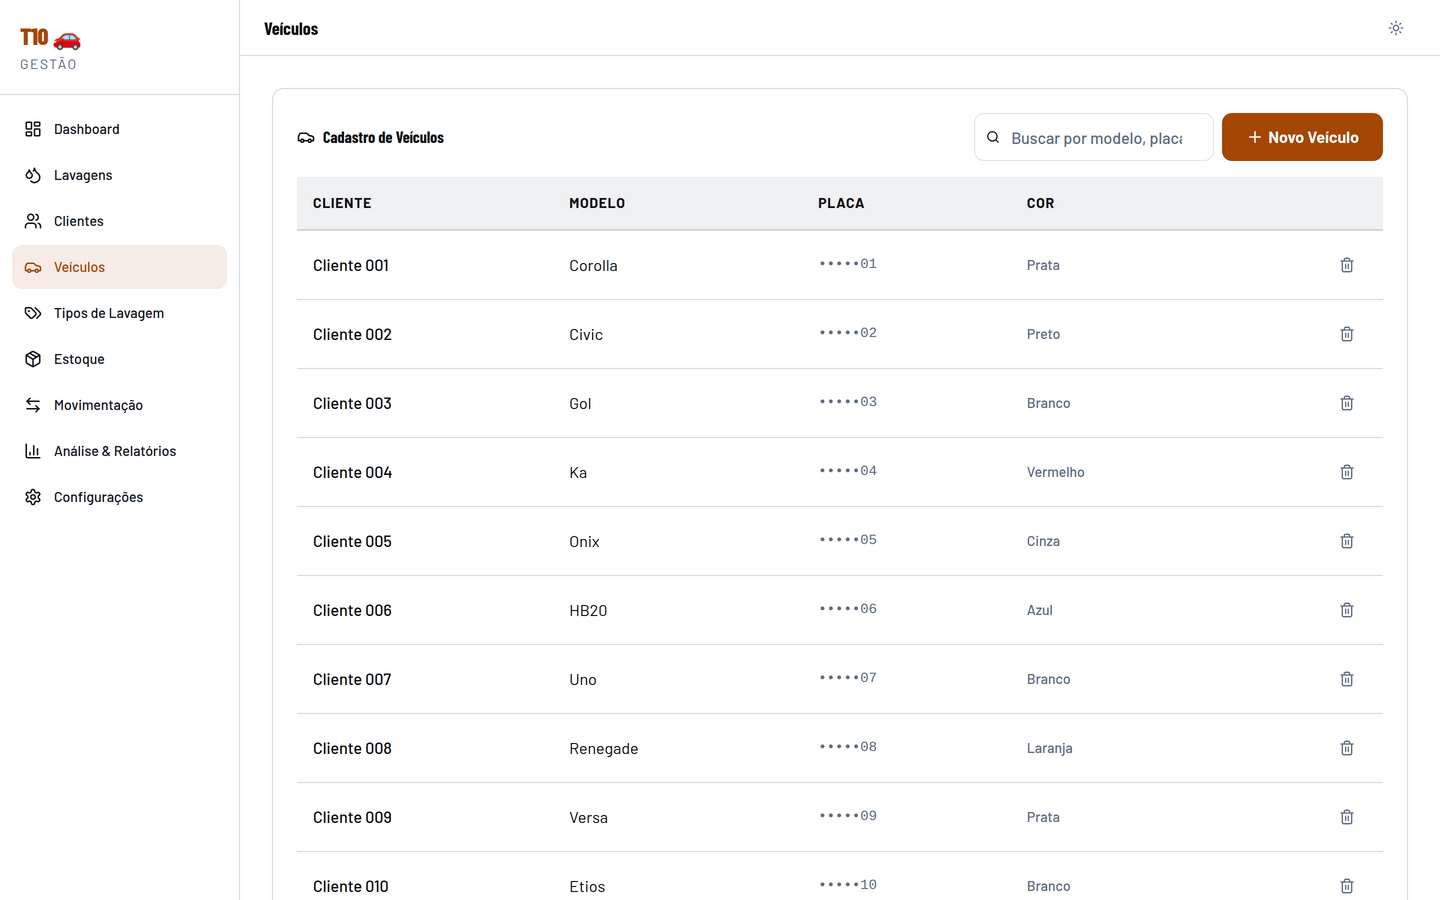
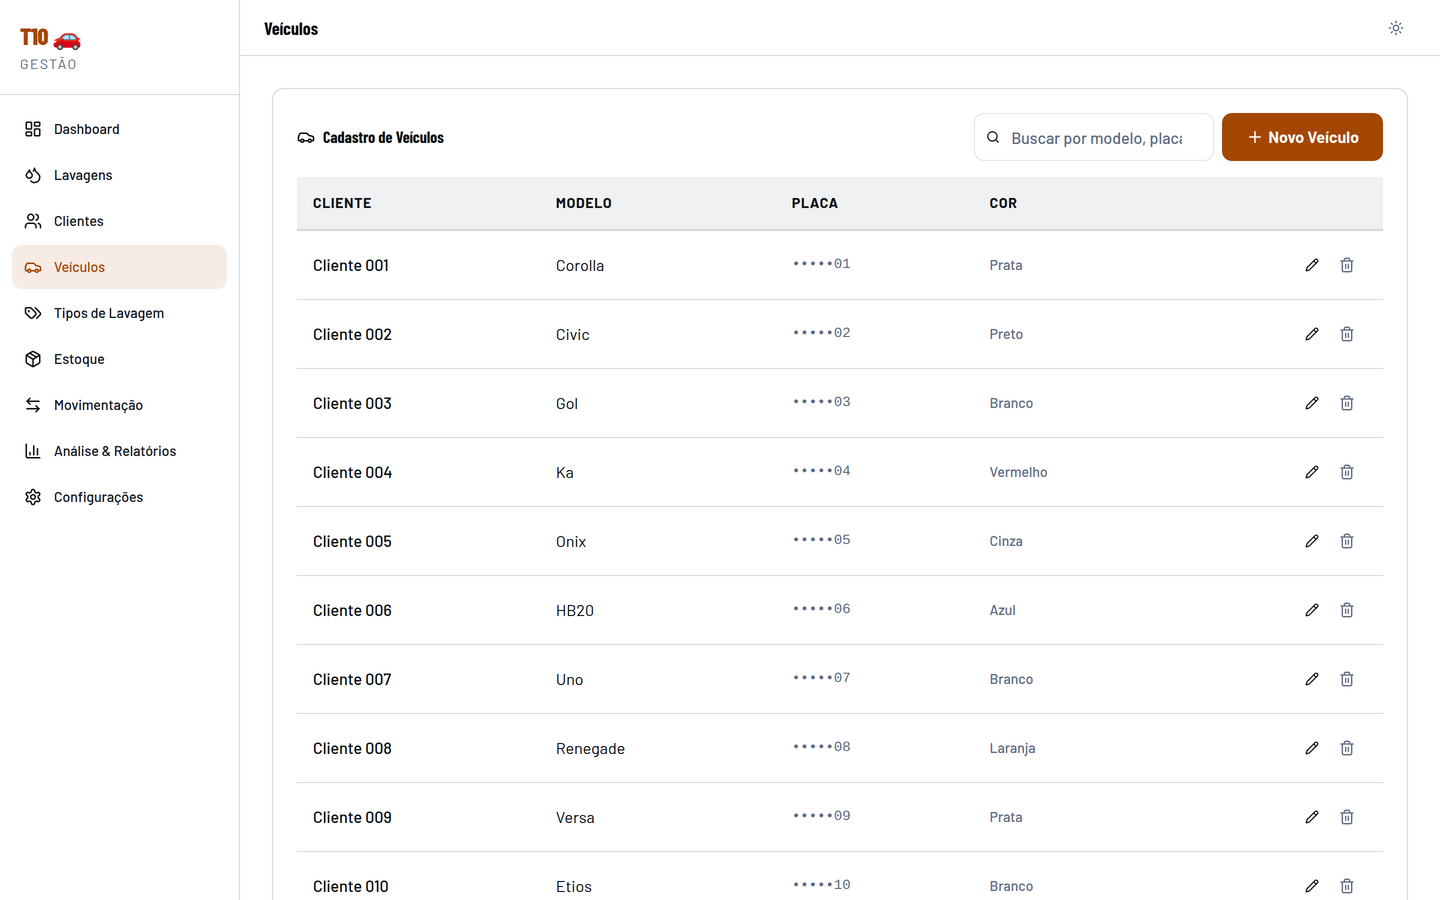
docs(capturas): atualiza telas afetadas e apendice dos modais
- Regenera veiculos-formulario (agora modal), veiculos-listagem,
  tipos-lavagem e estoque-critico.
- Passo de captura aguarda o dialogo e valida o modo criacao.
- Apendice da avaliacao LGPD registra a correcao dos modais orfaos.

diff --git a/docs.html b/docs.html
@@ -818,7 +818,7 @@ npm run build</code></pre>
 
                 <div class="section-card p-6">
                     <h3 class="text-lg font-semibold mb-4 text-slate-800 border-b pb-2">7.5 Veículos</h3>
-                    <p class="text-sm text-slate-600 mb-4">Frota vinculada aos clientes, com busca por modelo, placa ou nome e formulário de cadastro com validação de placa.</p>
+                    <p class="text-sm text-slate-600 mb-4">Frota vinculada aos clientes, com busca por modelo, placa ou nome e modal de cadastro/edição com validação de placa.</p>
                     <div class="grid md:grid-cols-2 gap-4">
                         <img src="./docs_assets/screenshots/05-veiculos/veiculos-listagem.png" alt="Listagem de veículos" class="rounded-lg border border-slate-200 shadow-sm w-full hover:shadow-md transition-shadow">
                         <img src="./docs_assets/screenshots/05-veiculos/veiculos-formulario.png" alt="Cadastro de veículo" class="rounded-lg border border-slate-200 shadow-sm w-full hover:shadow-md transition-shadow">

diff --git a/docs_assets/screenshots/AVALIACAO-LGPD.md b/docs_assets/screenshots/AVALIACAO-LGPD.md
@@ -460,10 +460,17 @@ PY
 
 ## Apêndice — achados de qualidade fora do escopo de privacidade
 
-Registrados porque apareceram durante a inspeção, mas **não** são questão de
-LGPD e **não** foram corrigidos sem alinhamento:
+Registrados porque apareceram durante a inspeção e **não** são questão de LGPD.
 
-- `openNovoVeiculo`, `openNovoServico` e `openMovimentacaoEstoque` existem no
-  `ModalContext` mas **não têm gatilho de UI** — são modais inalcançáveis pelo
-  usuário. Ou falta o botão, ou o handler é código morto. Impacto: funcionalidade
-  de cadastro que o README descreve pode não estar acessível na interface.
+- **Resolvido na branch `feat/modais-cadastro`.** `openNovoVeiculo` e
+  `openNovoServico` existiam no `ModalContext` sem gatilho de UI — modais
+  inalcançáveis pelo usuário. As telas `/veiculos` e `/tipos-lavagem` passaram a
+  abrir esses modais para criar e editar, e os formulários inline duplicados
+  foram removidos; `ClienteDetalhe` usa o mesmo modal com `clienteId`. A lacuna
+  real era a **edição de tipo de lavagem**, que antes só permitia criar e
+  excluir (e apagar o serviço quebra o histórico ligado por FK). O
+  `MovimentacaoEstoqueModal` foi removido em vez de ligado: a linha do estoque
+  agora leva a `/movimentacao?produto=<id>`, sem duas implementações do mesmo
+  formulário. A regressão é coberta por
+  `frontend/src/test/cadastros-modais.test.tsx`, que clica nos botões reais em
+  vez de chamar os handlers do contexto.

diff --git a/docs_assets/screenshots/00-indice.md b/docs_assets/screenshots/00-indice.md
@@ -72,13 +72,13 @@ seguem sintéticos.
 | Arquivo | Rota | O que mostra |
 |---|---|---|
 | `05-veiculos/veiculos-listagem.png` | `/veiculos` | Frota cadastrada, com busca por modelo, placa ou cliente. |
-| `05-veiculos/veiculos-formulario.png` | `/veiculos` | Cadastro de veículo vinculado a um cliente, com placa validada. |
+| `05-veiculos/veiculos-formulario.png` | `/veiculos` | Modal de cadastro de veículo vinculado a um cliente, com placa validada. |
 
 ## 06 — Serviços
 
 | Arquivo | Rota | O que mostra |
 |---|---|---|
-| `06-servicos/tipos-lavagem.png` | `/tipos-lavagem` | Catálogo de serviços: cadastro de preço e descrição usados no faturamento. |
+| `06-servicos/tipos-lavagem.png` | `/tipos-lavagem` | Catálogo de serviços com criação e edição por linha, usados no faturamento. |
 
 ## 07 — Estoque
 

diff --git a/README.md b/README.md
@@ -135,7 +135,7 @@ Listagem com busca, ficha detalhada com veículos e histórico, e edição cadas
 Frota vinculada aos clientes, com busca por modelo, placa ou nome.
 <div align="center">
   <img src="./docs_assets/screenshots/05-veiculos/veiculos-listagem.png" alt="Listagem de veículos" width="49%" />
-  <img src="./docs_assets/screenshots/05-veiculos/veiculos-formulario.png" alt="Formulário de cadastro de veículo" width="49%" />
+  <img src="./docs_assets/screenshots/05-veiculos/veiculos-formulario.png" alt="Modal de cadastro de veículo" width="49%" />
 </div>
 
 ### Serviços e Estoque
